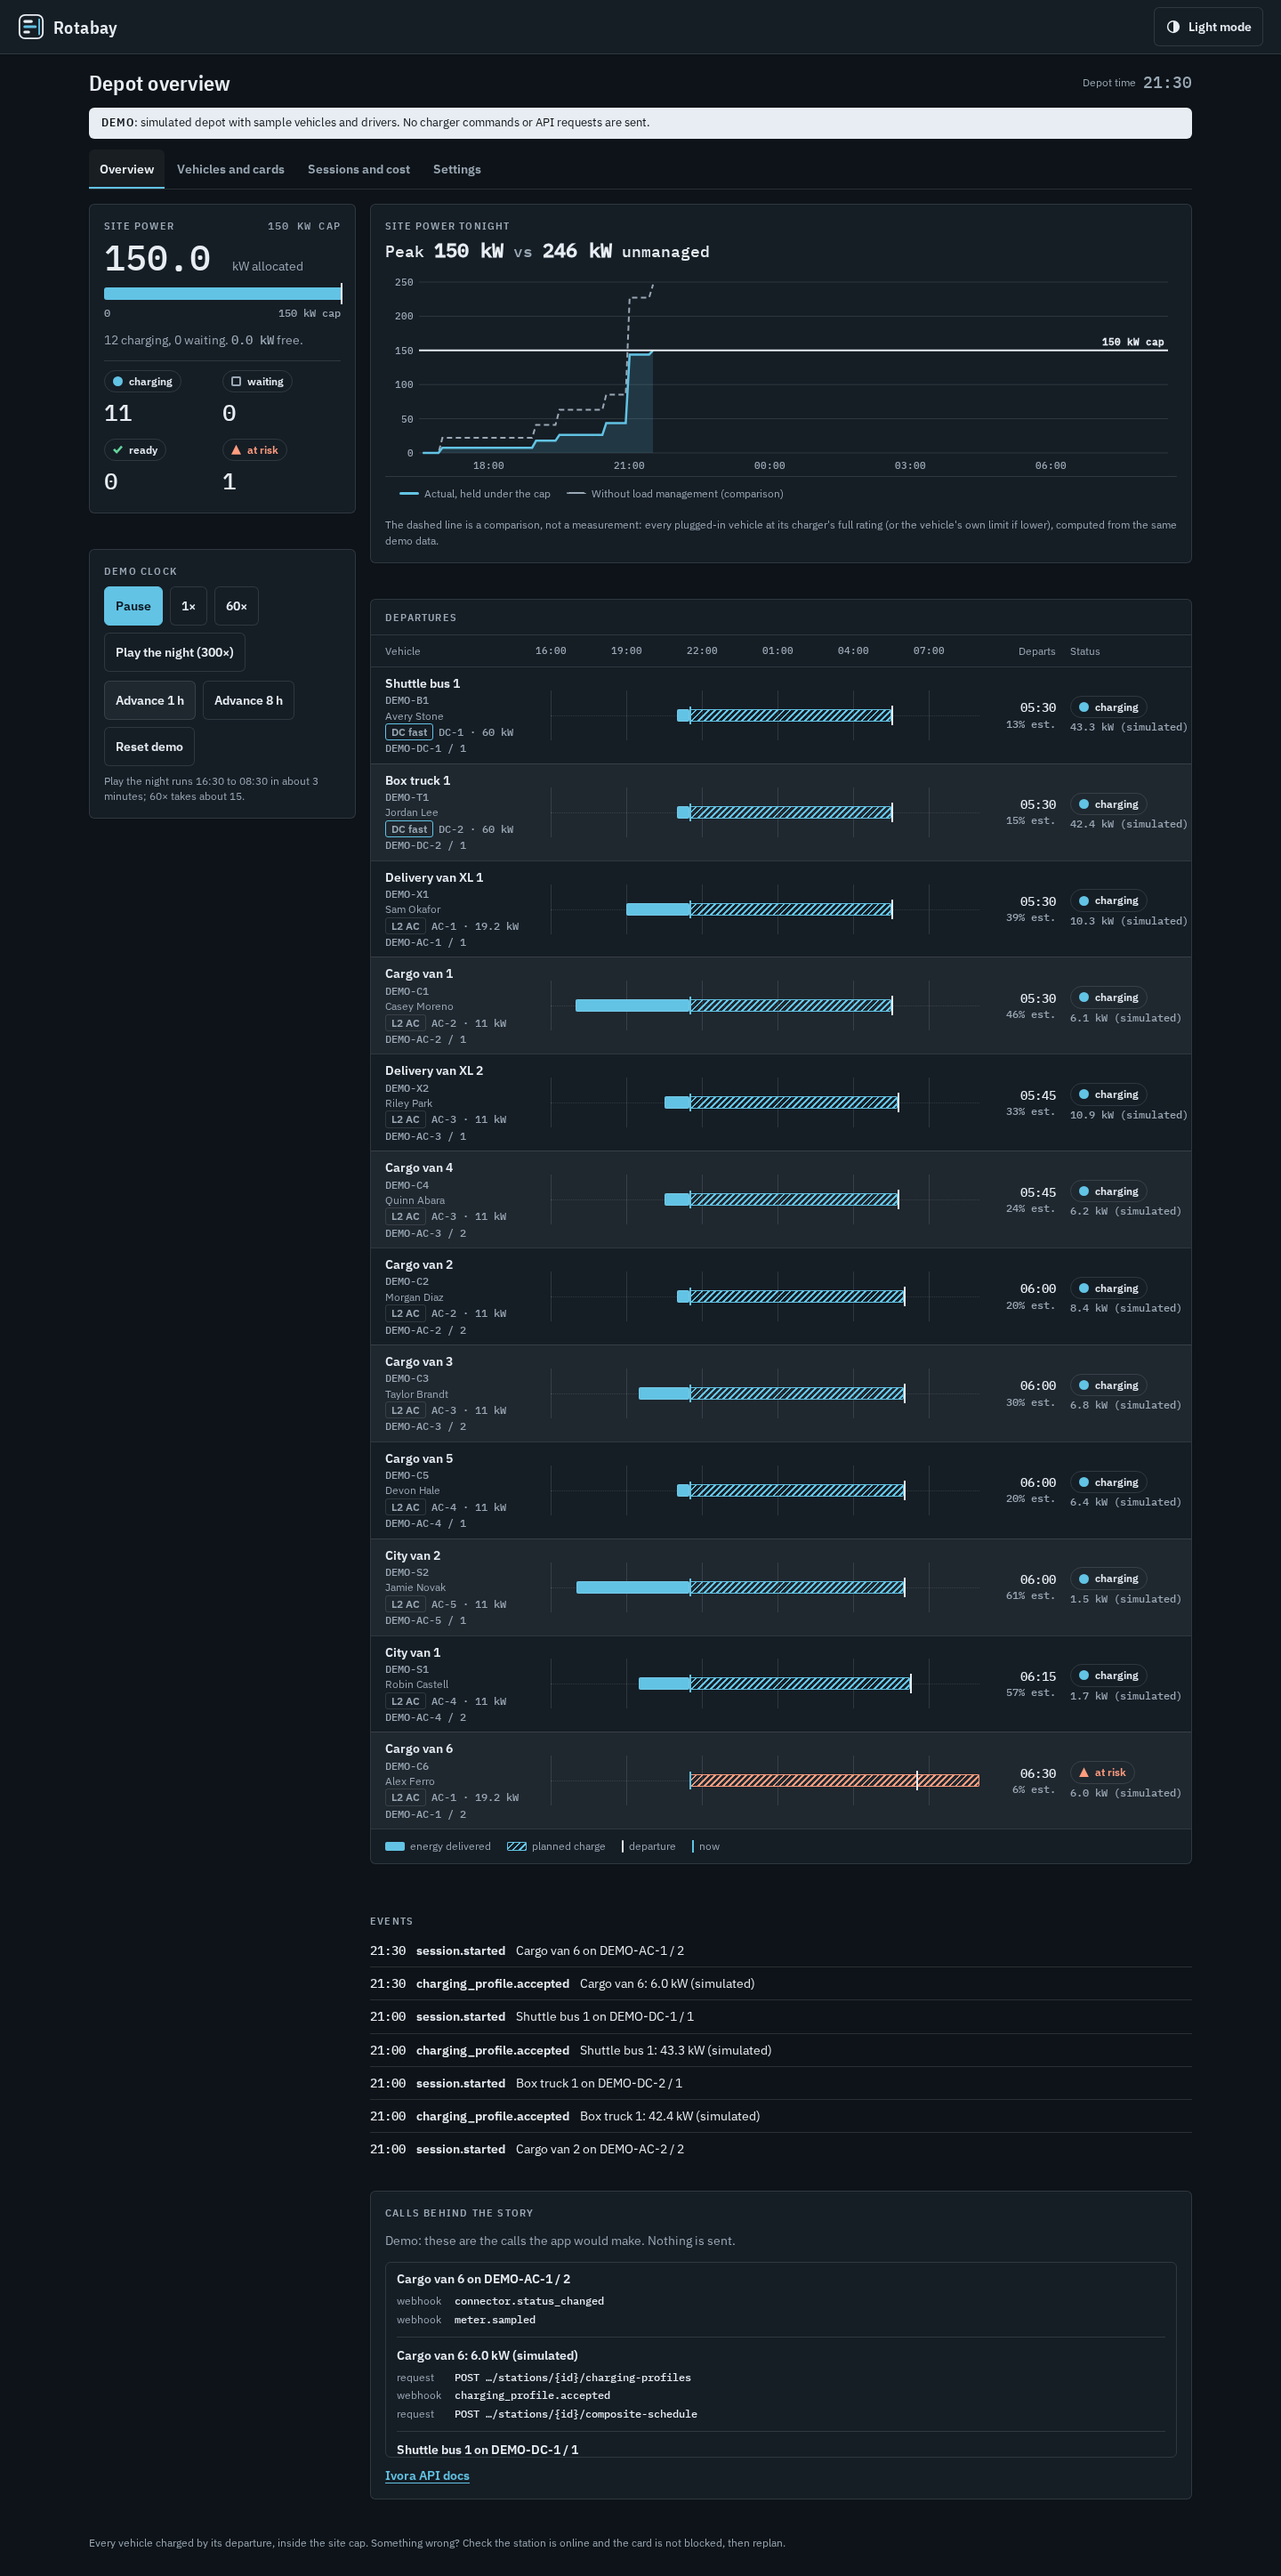
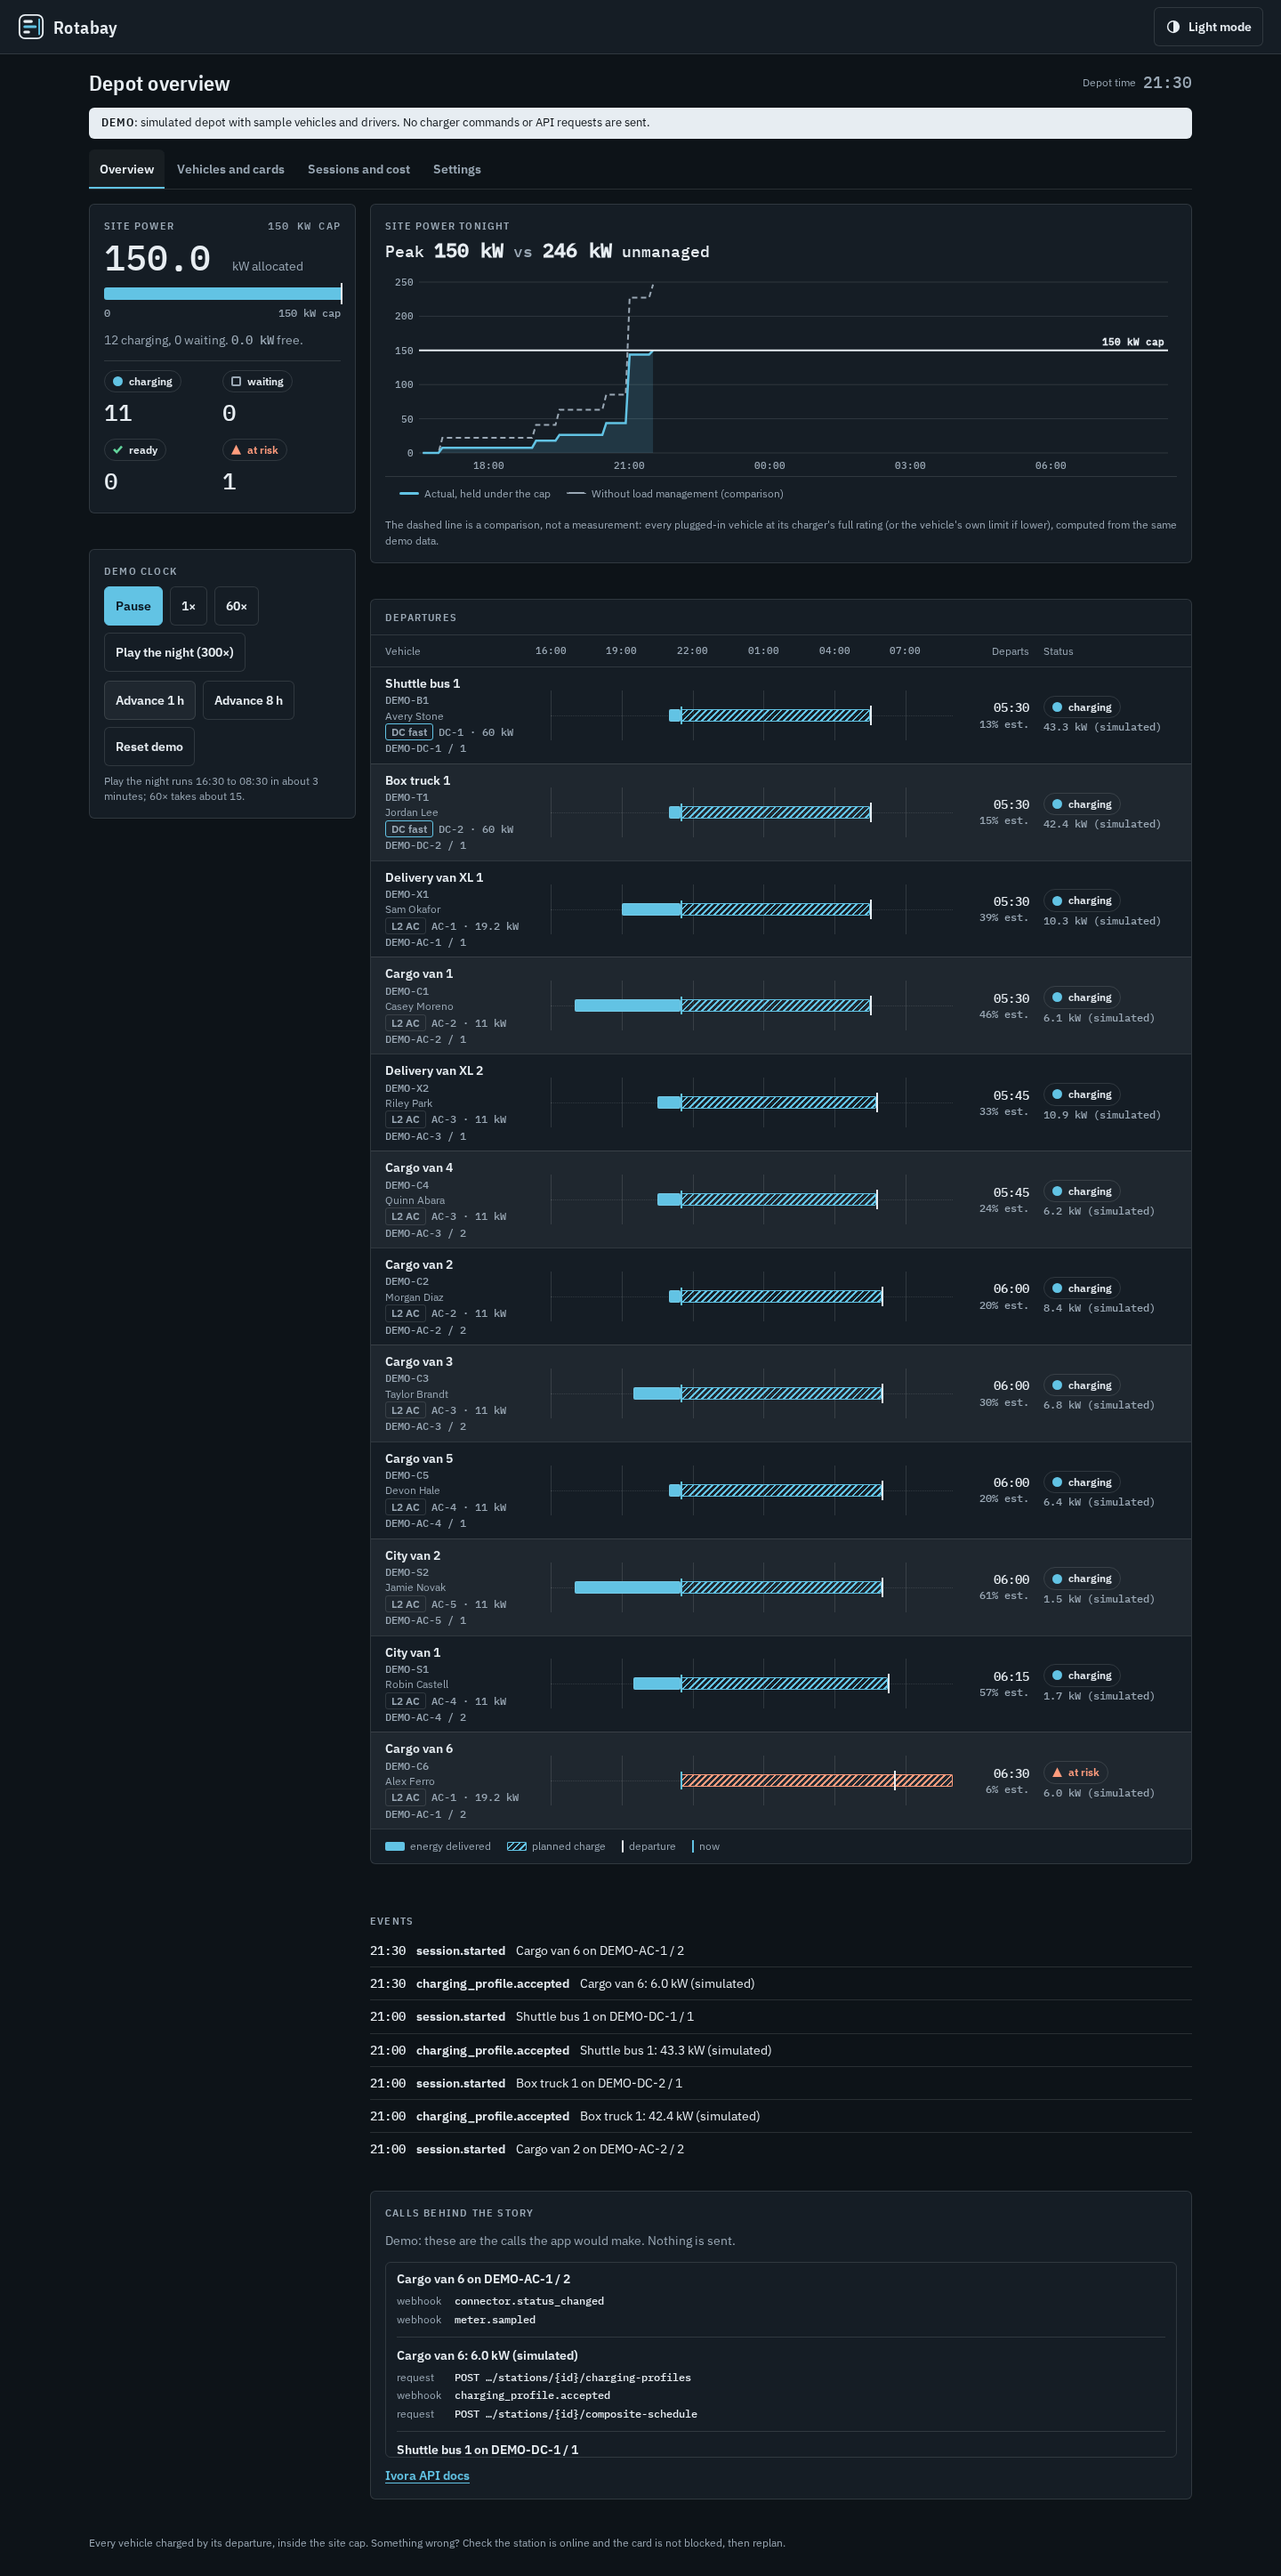
[SQD-59] fleet-depot: wall rows on a fixed grid, room for the status column
- Wall display Next departures rows: name | time | % now | pill on
  max-content columns, no wrapping, long names truncate. No overlap at
  1920x1080 or 1280x720 whatever font renders.
- Timeline status column 120px -> 150px; its lines wrap inside the card.
- e2e: wall-row children (box and drawn text) never overlap or leave the
  row; at 1440 px the status column stays inside the timeline card.
- Regenerated docs/screens.

diff --git a/fleet-depot/e2e/demo.spec.ts b/fleet-depot/e2e/demo.spec.ts
@@ -11,6 +11,52 @@ async function openDepot(page: Page) {
   await expect(page.locator(".top .clock")).toHaveText("16:30");
 }
 
+// Pairs of child elements whose bounding boxes overlap, or that spill out
+// of their parent, for every element matching `rows`.
+function overlaps(page: Page, rows: string, kids = ":scope > *") {
+  return page.evaluate(
+    ([rows, kids]) => {
+      const out: string[] = [];
+      for (const row of document.querySelectorAll(rows)) {
+        const p = row.getBoundingClientRect();
+        // The drawn extent: the element's box joined with its text, which
+        // can spill out of a too-narrow grid cell.
+        const boxes = [...row.querySelectorAll(kids)]
+          .filter((e) => e.getClientRects().length > 0)
+          .map((e) => {
+            const range = document.createRange();
+            range.selectNodeContents(e);
+            const a = e.getBoundingClientRect();
+            const t = range.getBoundingClientRect();
+            const r = t.width
+              ? {
+                  left: Math.min(a.left, t.left),
+                  right: Math.max(a.right, t.right),
+                  top: Math.min(a.top, t.top),
+                  bottom: Math.max(a.bottom, t.bottom),
+                }
+              : a;
+            return { text: e.textContent ?? "", r };
+          });
+        for (const [i, a] of boxes.entries()) {
+          if (a.r.left < p.left - 1 || a.r.right > p.right + 1)
+            out.push(`${a.text} leaves its row`);
+          for (const b of boxes.slice(i + 1))
+            if (
+              a.r.left < b.r.right &&
+              b.r.left < a.r.right &&
+              a.r.top < b.r.bottom &&
+              b.r.top < a.r.bottom
+            )
+              out.push(`${a.text} / ${b.text}`);
+        }
+      }
+      return out;
+    },
+    [rows, kids],
+  );
+}
+
 async function advance(page: Page, hours: number) {
   for (let i = 0; i < hours; i++) {
     const r = state(page);
@@ -191,7 +237,7 @@ for (const [width, height] of [
   }) => {
     await page.setViewportSize({ width, height });
     await openDepot(page);
-    await advance(page, 5);
+    await advance(page, 8);
     await page.getByRole("tab", { name: "Settings" }).click();
     await page.getByRole("button", { name: /Wall display/ }).click();
     await expect(
@@ -203,10 +249,37 @@ for (const [width, height] of [
       return w.scrollHeight <= w.clientHeight && w.scrollWidth <= w.clientWidth;
     });
     expect(fits).toBe(true);
+    expect(await overlaps(page, ".nextlist li")).toEqual([]);
     await page.keyboard.press("Escape");
     await expect(page.getByRole("tab", { name: "Overview" })).toBeVisible();
   });
 }
+
+test("desktop 1440: the status column stays inside the timeline card", async ({
+  page,
+}) => {
+  await page.setViewportSize({ width: 1440, height: 900 });
+  await openDepot(page);
+  await advance(page, 8);
+  await expect(page.locator(".row .st small.num").first()).toContainText(
+    "(simulated)",
+  );
+  const spill = await page.evaluate(() => {
+    const out: string[] = [];
+    for (const row of document.querySelectorAll(".tl-rows .row")) {
+      const card = row.closest(".panel")!.getBoundingClientRect();
+      for (const e of row.querySelectorAll(".st > *")) {
+        const range = document.createRange();
+        range.selectNodeContents(e);
+        const r = range.getBoundingClientRect();
+        if (r.right > card.right - 8) out.push(e.textContent ?? "");
+      }
+    }
+    return out;
+  });
+  expect(spill).toEqual([]);
+  expect(await overlaps(page, ".tl-rows .row")).toEqual([]);
+});
 
 test("refuses cross-origin writes", async ({ request }) => {
   const r = await request.post("/api/state", {
@@ -313,6 +386,7 @@ test("wall display opens from a direct link and keeps the visitor's night", asyn
   ).toBeVisible();
   await expect(page.locator(".wall .top .clock")).toHaveText("18:30");
   await expect(page.locator(".nextlist li").first()).toContainText("% now");
+  expect(await overlaps(page, ".nextlist li")).toEqual([]);
   await page.keyboard.press("Escape");
   await expect(page).toHaveURL(/\/depot$/);
 });

diff --git a/fleet-depot/app/globals.css b/fleet-depot/app/globals.css
@@ -448,7 +448,7 @@ button.danger {
 .tl-head,
 .row {
   display: grid;
-  grid-template-columns: 170px minmax(0, 1fr) 70px 120px;
+  grid-template-columns: 170px minmax(0, 1fr) 70px 150px;
   align-items: center;
   column-gap: var(--space);
   padding: 0 var(--space);
@@ -568,6 +568,11 @@ button.danger {
   display: grid;
   gap: 2px;
   justify-items: start;
+  min-width: 0;
+}
+.st small {
+  max-width: 100%;
+  overflow-wrap: anywhere;
 }
 .tl-lab {
   display: none;
@@ -1061,12 +1066,17 @@ svg .cap-l {
 .nextlist li {
   flex: 1;
   display: grid;
-  grid-template-columns: minmax(0, 1fr) 5ch 8ch auto;
+  grid-template-columns: minmax(0, 1fr) max-content max-content max-content;
   align-items: center;
   gap: 16px;
+  white-space: nowrap;
   padding: 0 var(--space);
   border-top: 1px solid var(--line);
   font-size: clamp(1.125rem, 3.4vh, 2rem);
+}
+.nextlist li > b {
+  overflow: hidden;
+  text-overflow: ellipsis;
 }
 .nextlist li:first-child {
   border-top: 0;
